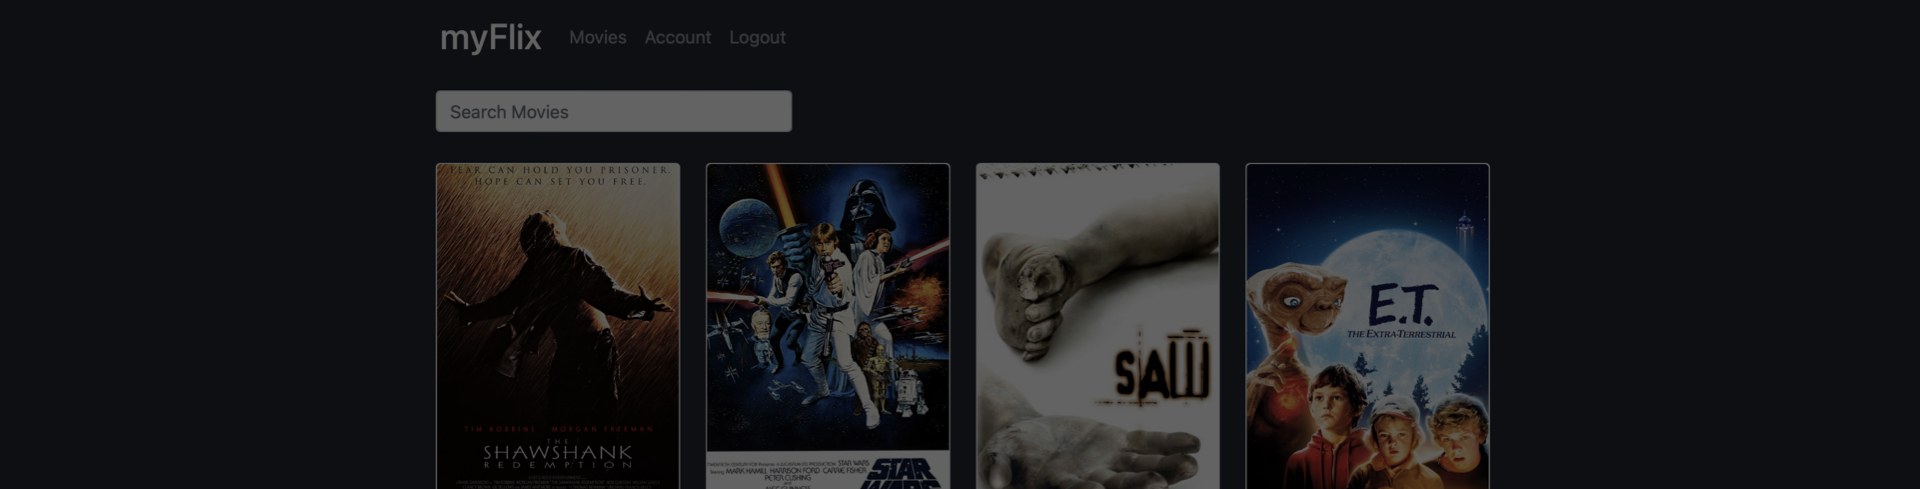
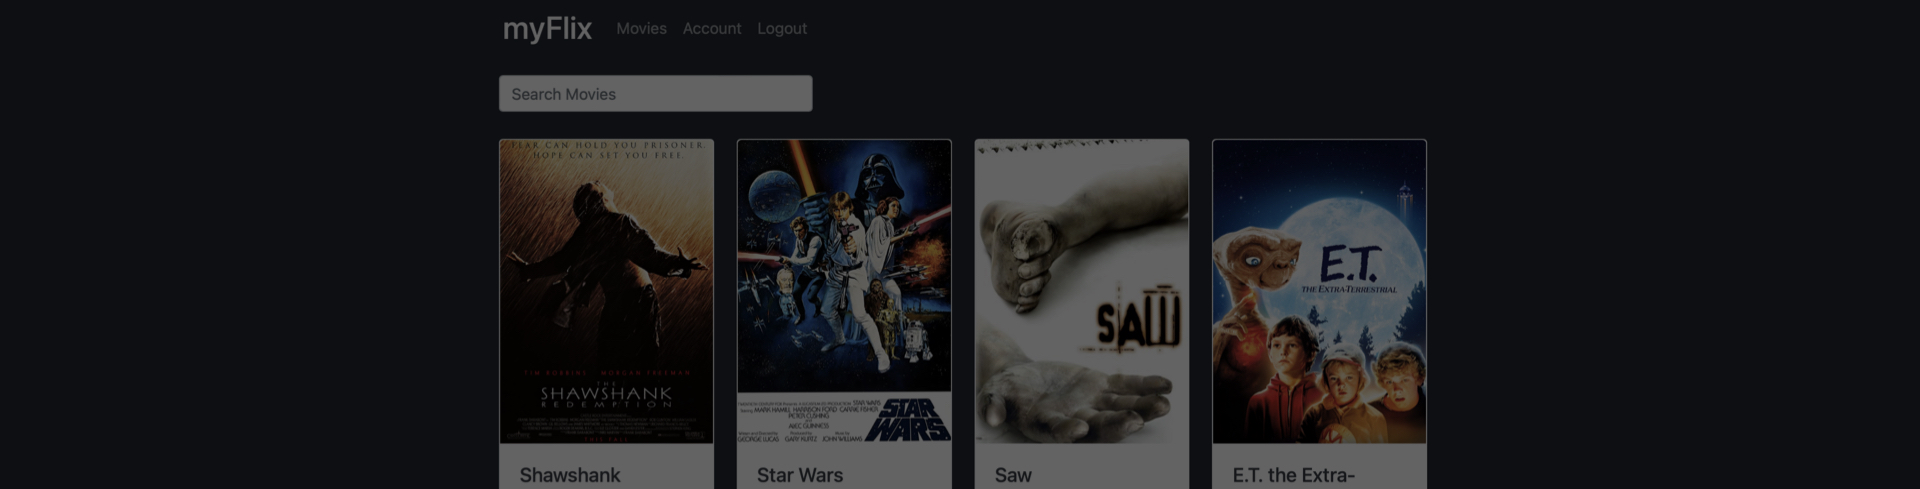
added content to project page

Changed region(s): [[0.2188, 0.1534, 0.7812, 1.0], [0.2188, 0.0307, 0.4062, 0.1227]]

diff --git a/nerox/project-details.html b/nerox/project-details.html
@@ -65,7 +65,7 @@
                         <div class="col-xxl-3 col-xl-2 col-lg-2 col-md-6 col-6">
                            <div class="logo-dark">
                               <a href="index.html">
-                                 <img src="assets/img/logo/logo.png" alt="logo">
+                                 <img src="assets/img/logo/tim-logo.png" alt="logo">
                               </a>
                            </div>
                            <div class="logo-white">
@@ -357,7 +357,8 @@
 
          <div style="text-align: center">
             <a href="https://my-flixx.netlify.app" target="_blank"><img src="https://img.shields.io/badge/-LIVE MYFLIX APP-blue?style=for-the-badge&logo=googlechrome&logoColor=white&link=https://www.linkedin.com/in/timothy-fara/" /></a>
-            <a href="https://github.com/faratim/myFlix-client.git" target="_blank"><img src="https://img.shields.io/badge/-GITHUB REPO-blue?style=for-the-badge&logo=github&logoColor=white&color=ff69b4&link=https://www.linkedin.com/in/timothy-fara/" /></a>
+            <a href="https://github.com/faratim/myFlix-client.git" target="_blank"><img src="https://img.shields.io/badge/-CLIENTSIDE REPO-blue?style=for-the-badge&logo=github&logoColor=white&color=ff69b4&link=https://www.linkedin.com/in/timothy-fara/" /></a>
+            <a href="https://github.com/faratim/movie_api.git" target="_blank"><img src="https://img.shields.io/badge/-SERVERSIDE REPO-blue?style=for-the-badge&logo=github&logoColor=white&color=ff69b4&link=https://www.linkedin.com/in/timothy-fara/" /></a>
          </div>
 
          <!-- project-details-area start -->
@@ -366,7 +367,7 @@
                <div class="row align-items-center">
                   <div class="col-xl-5 col-lg-6">
                      <div class="aboutme-image mb-40">
-                        <img class="b-radius" src="assets/img/project/myFlix-wide.jpeg" alt="project img">
+                        <img class="b-radius" src="assets/img/project/myFlix-fav.png" alt="project img">
                      </div>
                   </div>
                   <div class="col-xl-7 col-lg-6">
@@ -379,7 +380,8 @@
                               <li>
                                  <div>
                                     <a href="https://my-flixx.netlify.app" target="_blank"><img src="https://img.shields.io/badge/-LIVE MYFLIX APP-blue?style=for-the-badge&logo=googlechrome&logoColor=white&link=https://www.linkedin.com/in/timothy-fara/" /></a>
-                                    <a href="https://github.com/faratim/myFlix-client.git" target="_blank"><img src="https://img.shields.io/badge/-GITHUB REPO-blue?style=for-the-badge&logo=github&logoColor=white&color=ff69b4&link=https://www.linkedin.com/in/timothy-fara/" /></a>
+                                    <a href="https://github.com/faratim/myFlix-client.git" target="_blank"><img src="https://img.shields.io/badge/-CLIENTSIDE REPO-blue?style=for-the-badge&logo=github&logoColor=white&color=ff69b4&link=https://www.linkedin.com/in/timothy-fara/" /></a>
+                                    <a href="https://github.com/faratim/movie_api.git" target="_blank"><img src="https://img.shields.io/badge/-SERVERSIDE REPO-blue?style=for-the-badge&logo=github&logoColor=white&color=ff69b4&link=https://www.linkedin.com/in/timothy-fara/" /></a>
                                  </div>
                               </li>
                               <li><p>Front-End:<a href="#"> React, Redux, React-Bootstrap, SASS (USA)</a></p></li>
@@ -393,13 +395,38 @@
                <div class="row">
                   <div class="col-xl-12">
                      <div class="project-details-content">
-                        <h4 class="tab-pane-title mb-30"><b>Something about</b> project  Case Studies</h4>
-                        <p>Sed ut perspiciatis unde omnis iste natus error sit voluptatem accusantium doloremque laudantium, totam rem aperiam, eaque ipsa quae ab illo inventore veritatis et quasi architecto beatae vitae dicta sunt explicabo. Nemo enim ipsam voluptatem quia voluptas sit aspernatur aut odit aut fugit, sed quia consequuntur magni dolores eos qui ratione voluptatem sequi nesciunt. Neque porro quisquam est, qui dolorem ipsum quia dolor sit amet, consectetur, adipisci velit, sed quia non numquam eius modi tempora incidunt ut labore et dolore magnam aliquam quaerat voluptatem. Ut enim ad minima veniam.</p>
-                        <p>Sed ut perspiciatis unde omnis iste natus error sit voluptatem accusantium doloremque laudantium, totam rem aperiam, eaque ipsa quae ab illo inventore veritatis et quasi architecto beatae vitae dicta sunt explicabo. Nemo enim ipsam voluptatem quia voluptas sit aspernatur aut odit aut fugit, sed quia consequuntur magni dolores eos qui ratione voluptatem sequi nesciunt. Neque porro quisquam est, qui dolorem ipsum</p>
-                        <p>Sed ut perspiciatis unde omnis iste natus error sit voluptatem accusantium doloremque laudantium, totam rem aperiam, eaque ipsa quae ab illo inventore veritatis et quasi architecto beatae vitae dicta sunt explicabo. Nemo enim ipsam voluptatem quia voluptas sit aspernatur aut odit aut fugit, sed quia consequuntur magni dolores eos qui ratione voluptatem sequi nesciunt. Neque porro quisquam est, qui dolorem ipsum quia dolor sit amet, consectetur, adipisci velit, sed quia non numquam eius modi tempora incidunt ut labore et dolore magnam aliquam quaerat voluptatem. Ut enim ad minima veniam.</p>
-                        <p>Sed ut perspiciatis unde omnis iste natus error sit voluptatem accusantium doloremque laudantium, totam rem aperiam, eaque ipsa quae ab illo inventore veritatis et quasi architecto beatae vitae dicta sunt explicabo. Nemo enim ipsam voluptatem quia voluptas sit aspernatur aut odit aut fugit, sed quia consequuntur magni dolores eos qui ratione voluptatem sequi nesciunt. Neque porro quisquam est, qui dolorem ipsum</p>
+                        <h4 class="tab-pane-title mb-30" style="margin-bottom: 0.3rem"><b>Client-Side and Server-Side</b></h4> <h4 class="tab-pane-title mb-30">React SPA, REST API, NoSQL Database</h4>
+                        
+                        <h6>Use the Site</h6>
+                        <p style="margin-bottom: 25px;">Use the link to access the live site, register as a user, test the search feature, add movies to your favorites list, edit your profile, and more!  Access the Github repos to see the code for both sides of the app.</p>
+
+                        <h6>Project Brief</h6>
+                        <p style="margin-bottom: 25px;">Build the server-side and client-side components of a “movies” web application. The web application will provide users with access to information about different movies, directors, and genres. Users will be able to sign up, update their personal information, and create a list of their favorite movies.</p>
+                        
+                        <h6>Client-Side</h6>
+                        <ul style="padding-left: 40px; margin-bottom: 20px;">
+                           <li>The application must be a single-page application (SPA) and use state routing to navigate between views and share URLs. </li>
+                           <li>The application must give users the option to filter movies, sort movies, and save movies to a list of favorites.</li>
+                           <li>The application must be written using the React library, with React Redux (hence respecting the Flux pattern), and in ES2015+.</li>
+                           <li>The application must contain a mix of class components and function components.</li>
+                           <li> The application must use Bootstrap as a UI library for styling and responsiveness.</li>
+                        </ul>
+                        <h6>Server-Side</h6>
+                        <ul style="padding-left: 40px; margin-bottom: 20px;">
+                           <li>The API must be a Node.js and Express application using REST architecture, with URL endpoints corresponding to necessary data operations.</li>
+                           <li>The API must use at least three middleware modules, such as the body-parser package for reading data from requests and morgan for logging.</li>
+                           <li>The database must be built using MongoDB and the business logic must be modeled with Mongoose.</li>
+                           <li> The API must provide movie information in JSON format.</li>
+                           <li>The API must include user authentication and authorization code, include data validation logic, and meet data security regulations.</li>
+                           <li>The API must be tested in Postman and deployed to Heroku.</li>
+                        </ul>
+
+                        <h6>Live Site and Github Links</h6>
+                        <a href="https://my-flixx.netlify.app" target="_blank"><img src="https://img.shields.io/badge/-LIVE MYFLIX APP-blue?style=for-the-badge&logo=googlechrome&logoColor=white&link=https://www.linkedin.com/in/timothy-fara/" /></a>
+                        <a href="https://github.com/faratim/myFlix-client.git" target="_blank"><img src="https://img.shields.io/badge/-CLIENTSIDE REPO-blue?style=for-the-badge&logo=github&logoColor=white&color=ff69b4&link=https://www.linkedin.com/in/timothy-fara/" /></a>
+                        <a href="https://github.com/faratim/movie_api.git" target="_blank"><img src="https://img.shields.io/badge/-SERVERSIDE REPO-blue?style=for-the-badge&logo=github&logoColor=white&color=ff69b4&link=https://www.linkedin.com/in/timothy-fara/" /></a>
                      </div>
-                     <div class="row mt-45">
+                     <!-- <div class="row mt-45">
                         <div class="col-xl-6 col-lg-6 col-md-6">
                            <div class="project-details-dimage w-img mb-45">
                               <img class="b-radius" src="assets/img/project/project-d2.jpg" alt="project img">
@@ -412,7 +439,7 @@
                         </div>
                      </div>
                      <p>Sed ut perspiciatis unde omnis iste natus error sit voluptatem accusantium doloremque laudantium, totam rem aperiam, eaque ipsa quae ab illo inventore veritatis et quasi architecto beatae vitae dicta sunt explicabo. Nemo enim ipsam voluptatem quia voluptas sit aspernatur aut odit aut fugit, sed quia consequuntur magni dolores eos qui ratione voluptatem sequi nesciunt. Neque porro quisquam est, qui dolorem ipsum quia dolor sit amet, consectetur, adipisci velit, sed quia non numquam eius modi tempora incidunt ut labore et dolore magnam aliquam quaerat voluptatem. Ut enim ad minima veniam.</p>
-                     <p>Sed ut perspiciatis unde omnis iste natus error sit voluptatem accusantium doloremque laudantium, totam rem aperiam, eaque ipsa quae ab illo inventore veritatis et quasi architecto beatae vitae dicta sunt explicabo. Nemo enim ipsam voluptatem quia voluptas sit aspernatur aut odit aut fugit, sed quia consequuntur magni dolores eos qui ratione voluptatem sequi nesciunt. Neque porro quisquam est, qui dolorem ipsum</p>
+                     <p>Sed ut perspiciatis unde omnis iste natus error sit voluptatem accusantium doloremque laudantium, totam rem aperiam, eaque ipsa quae ab illo inventore veritatis et quasi architecto beatae vitae dicta sunt explicabo. Nemo enim ipsam voluptatem quia voluptas sit aspernatur aut odit aut fugit, sed quia consequuntur magni dolores eos qui ratione voluptatem sequi nesciunt. Neque porro quisquam est, qui dolorem ipsum</p> -->
                      <div class="project-details-nav mt-55">
                         <div class="details-nav-item">
                            <a href="project-details.html"><i class="fas fa-long-arrow-left"></i> Back</a>
